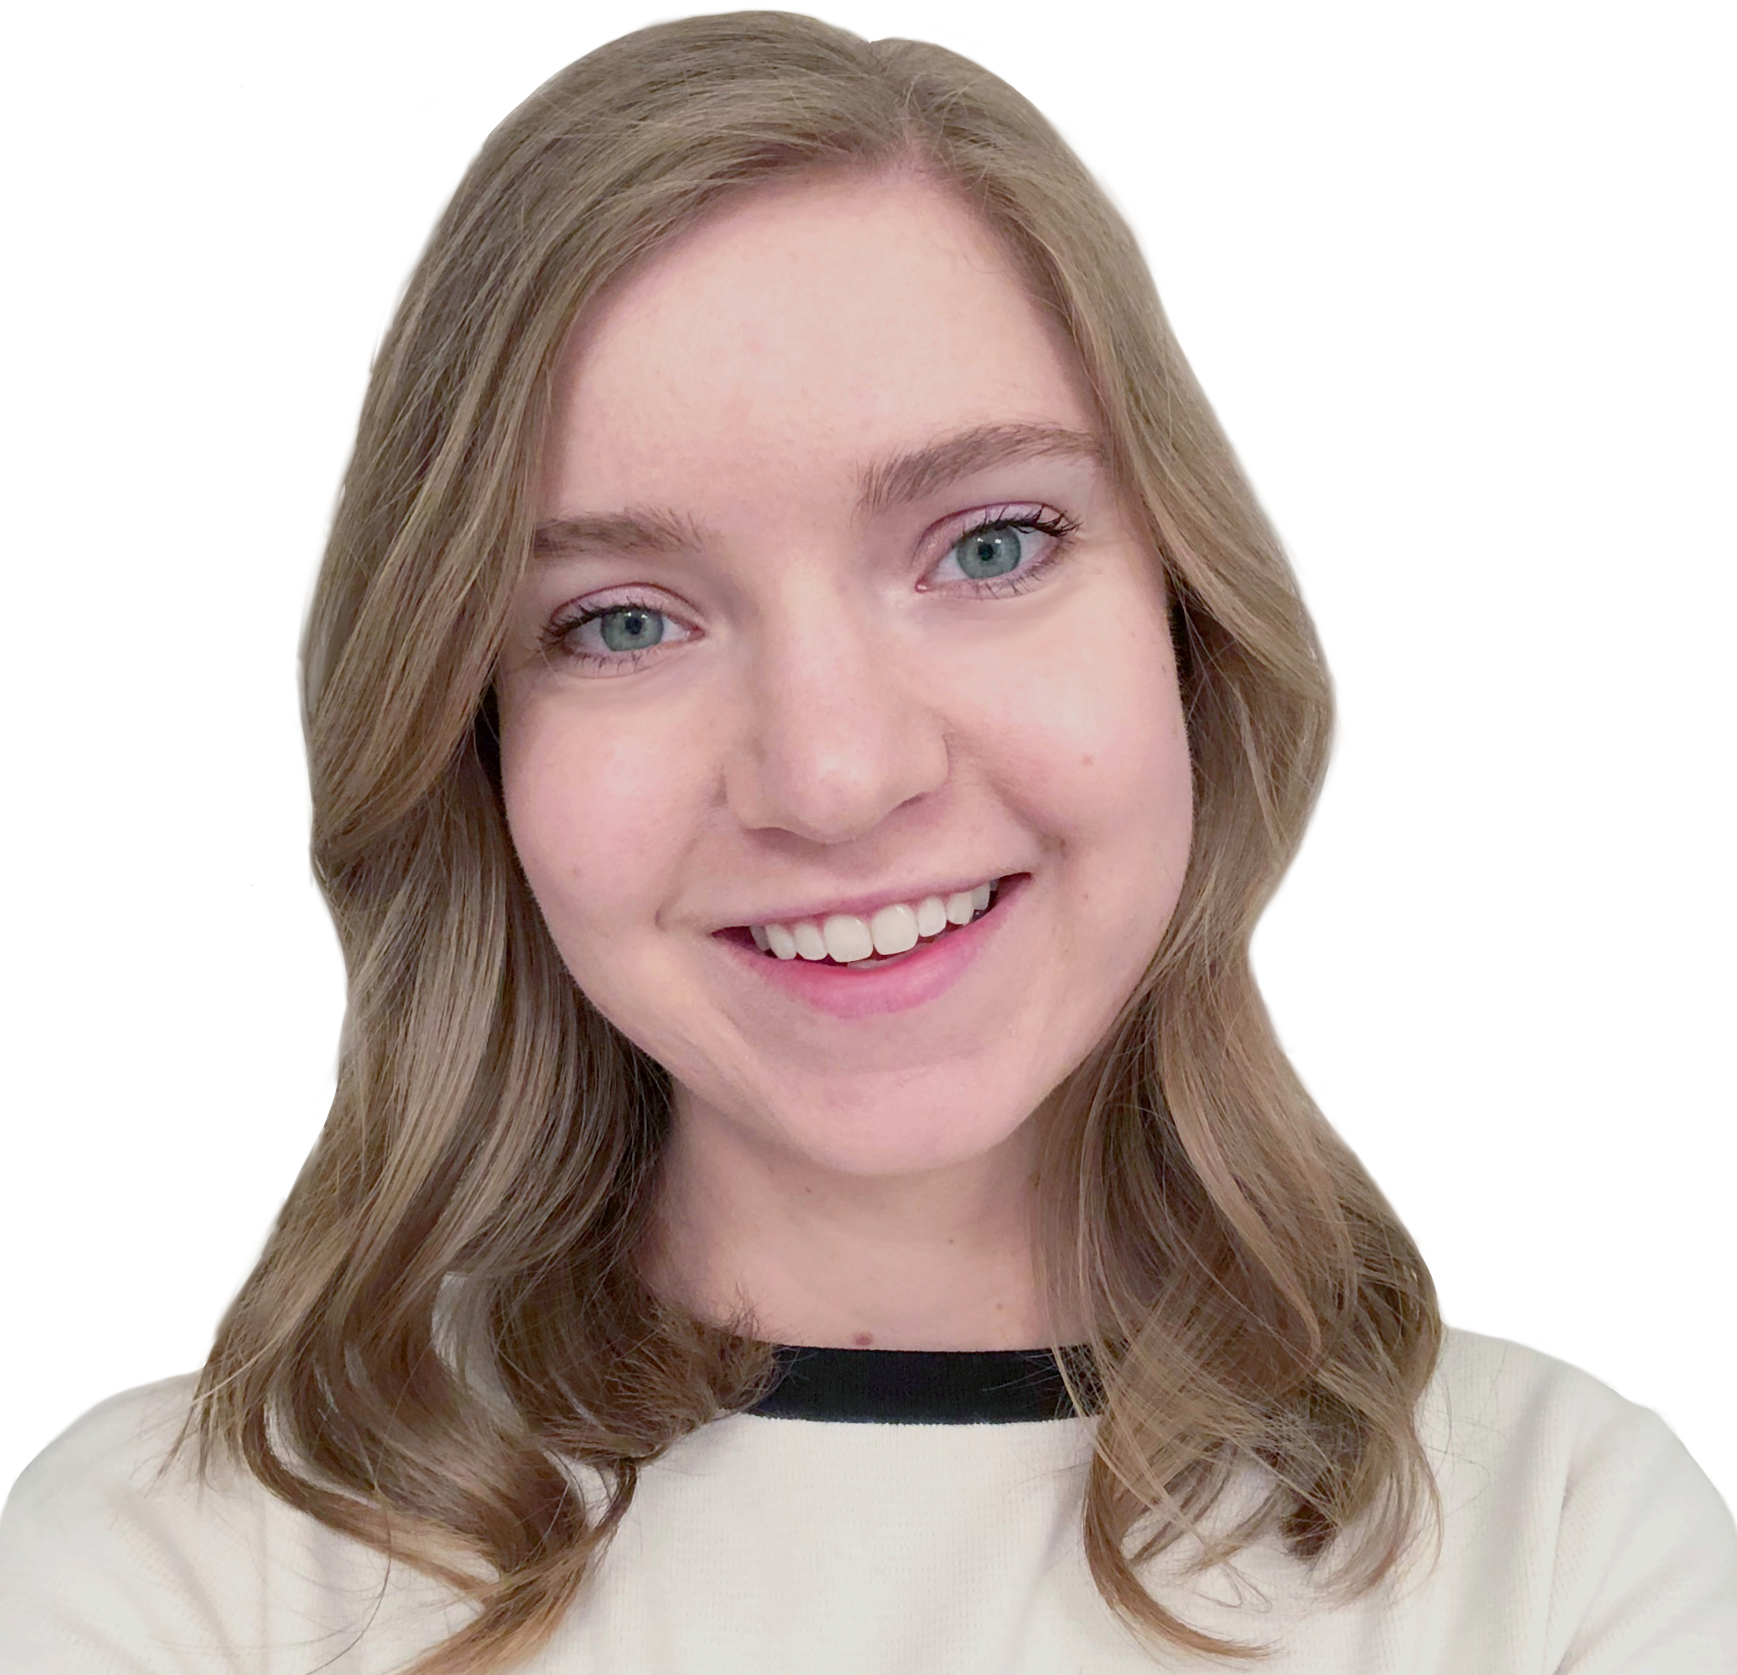
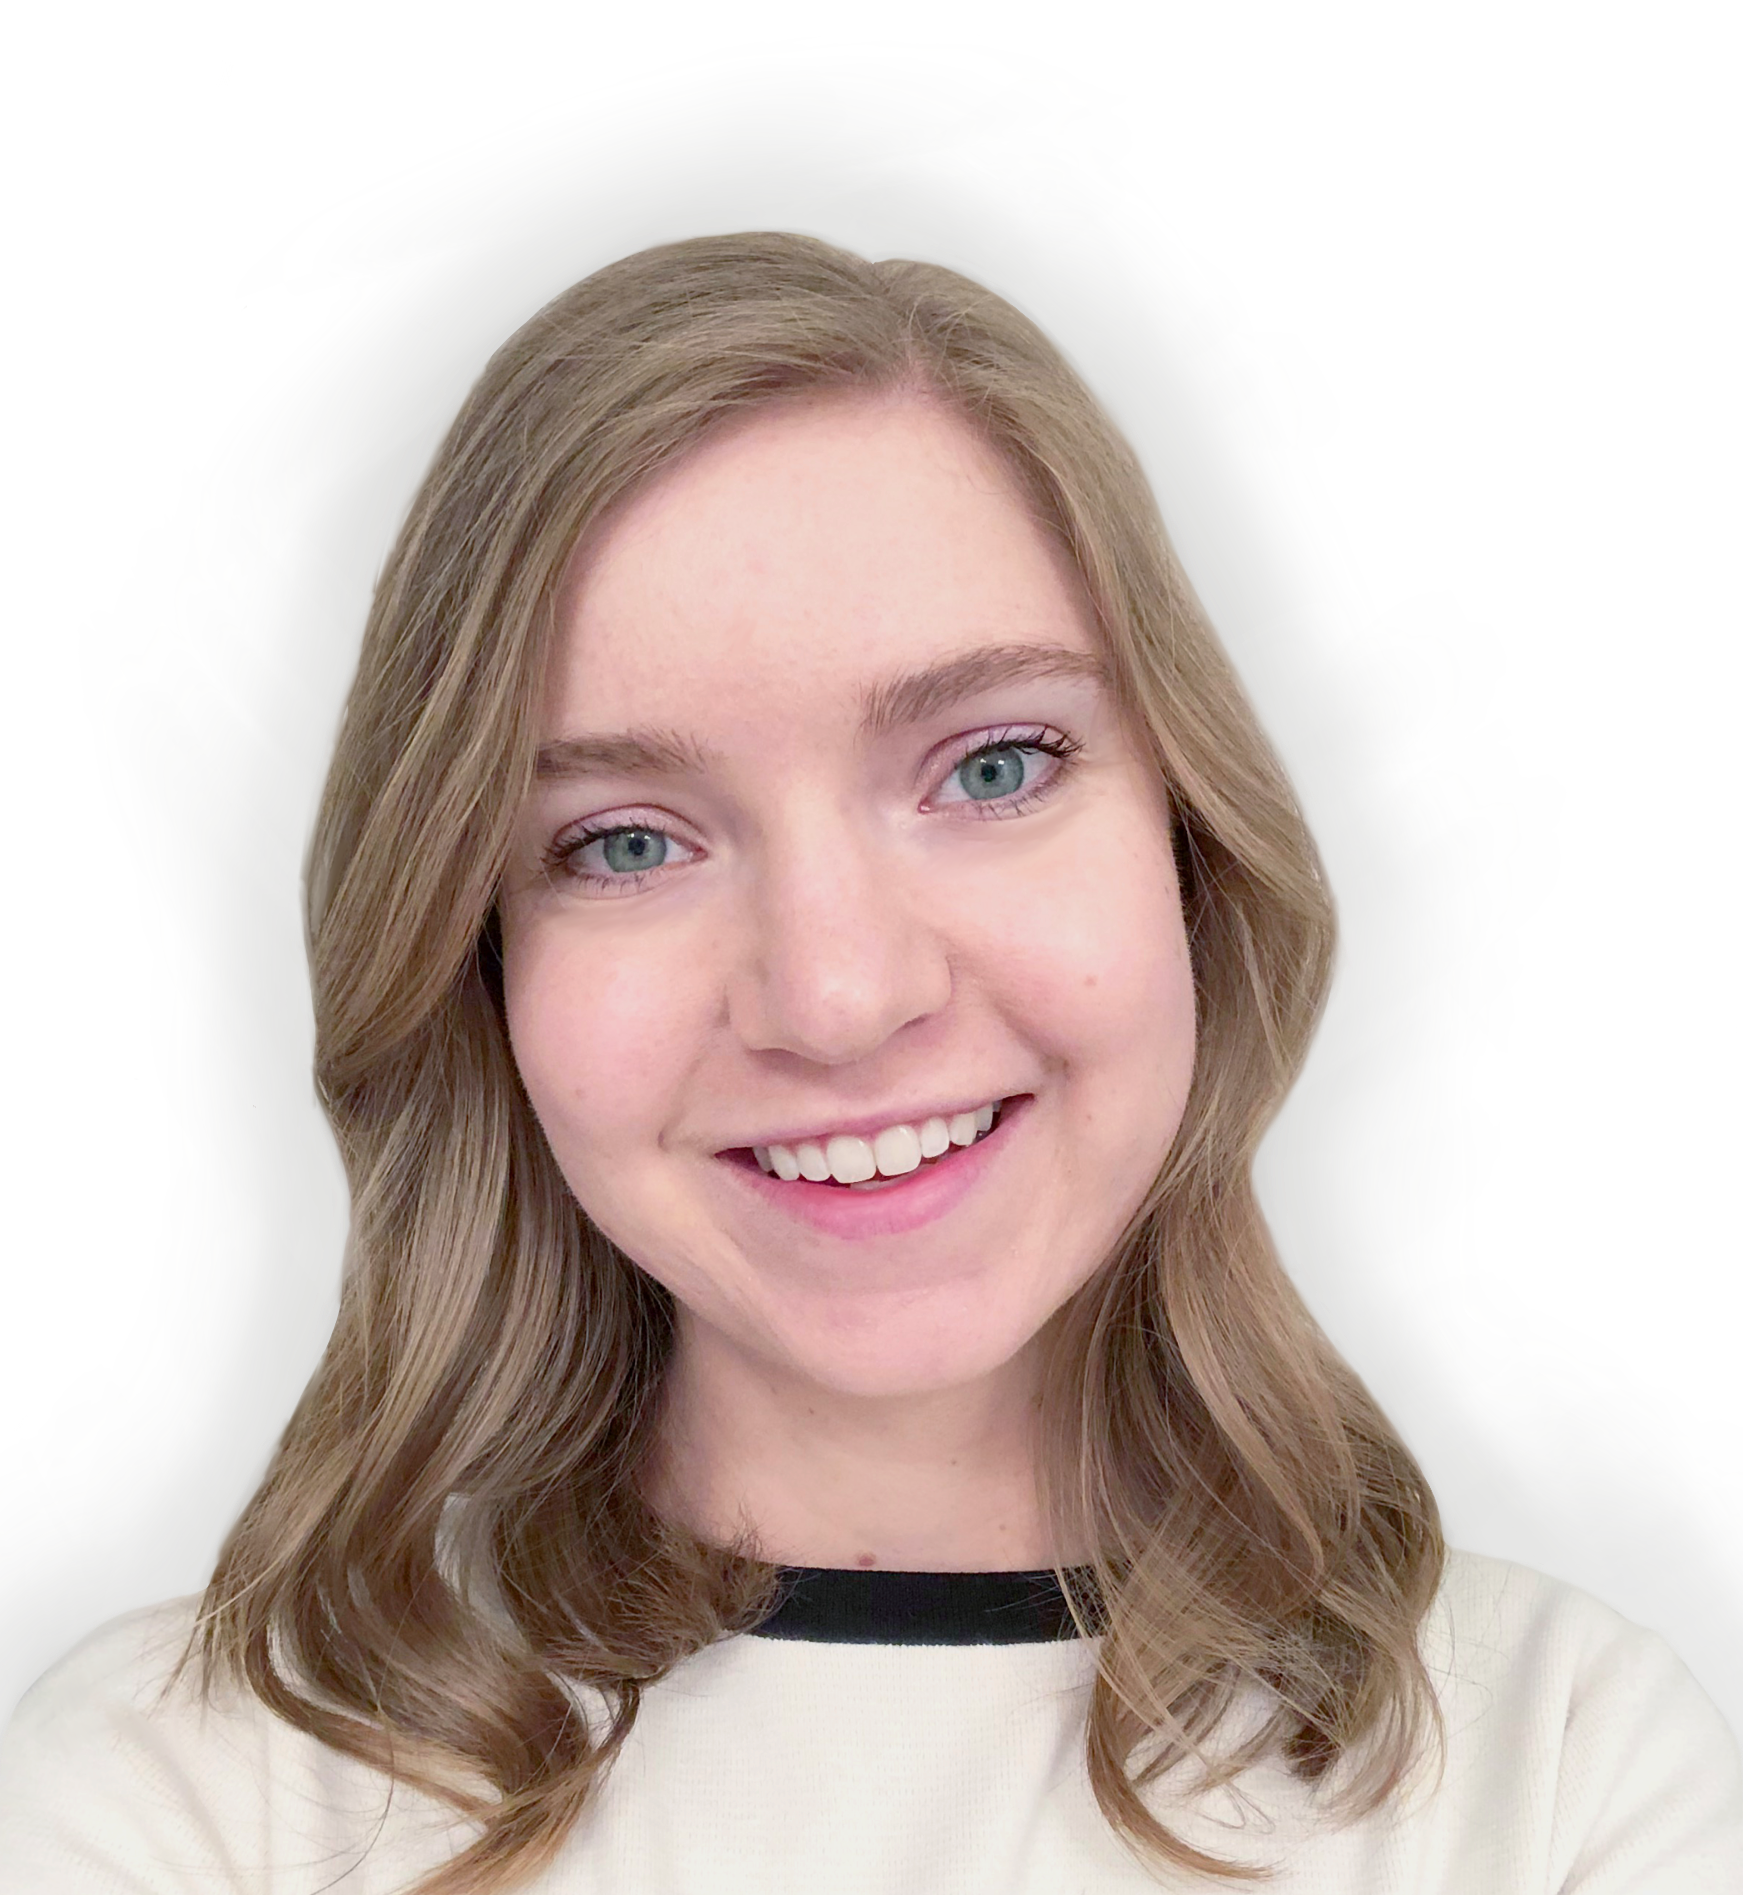
Added custom made social profile images

diff --git a/src/components/navbar/Navbar.jsx b/src/components/navbar/Navbar.jsx
@@ -1,7 +1,4 @@
 import "./navbar.scss"
-import LinkedInIcon from '@material-ui/icons/LinkedIn';
-import TwitterIcon from '@material-ui/icons/Twitter';
-import GitHubIcon from '@material-ui/icons/GitHub';
 
 export default function Navbar({ menuOpen, setMenuOpen }) {
     return (
@@ -11,9 +8,9 @@ export default function Navbar({ menuOpen, setMenuOpen }) {
                     <a href="#home" className="logo">hi. 👋🏼 </a>
                 </div>
                 <div class="icons">
-                    <a href="https://www.linkedin.com/in/rachel-e-salazar/" target="blank"><LinkedInIcon /></a>
-                    <a href="https://twitter.com/rach_e_l_" target="blank"><TwitterIcon /></a>
-                    <a href="https://github.com/rachelsalazar" target="blank"><GitHubIcon /></a>
+                    <a href="https://www.linkedin.com/in/rachel-e-salazar/" target="blank"><img src="../../assets/linkedin-white.png" alt="linkedin link"/></a>
+                    <a href="https://twitter.com/rach_e_l_" target="blank"><img src="../../assets/twitter-white.png" alt="twitter link"/></a>
+                    <a href="https://github.com/rachelsalazar" target="blank"><img src="../../assets/github-white.png" alt="github link"/></a>
                 </div>
                 <div className="right">
                     <span className="hamburger" onClick={() => setMenuOpen(!menuOpen)}>🍔</span>

diff --git a/src/components/home/Home.jsx b/src/components/home/Home.jsx
@@ -16,7 +16,7 @@ export default function Home() {
         <div className="home" id="home">
             <div className="left">
                 <div className="imgContainer">
-                    <img src="/assets/profile-pic1.png" alt="rachel salazar"/>
+                    <img src="/assets/profile-pic.png" alt="rachel salazar"/>
                 </div>
             </div>
             <div className="right">

diff --git a/src/components/navbar/navbar.scss b/src/components/navbar/navbar.scss
@@ -37,6 +37,11 @@
                 color: inherit;
                 text-decoration: none;
             }
+
+            img {
+                height: 40px;
+                width: 40px;
+            }
         }
 
         .right {
